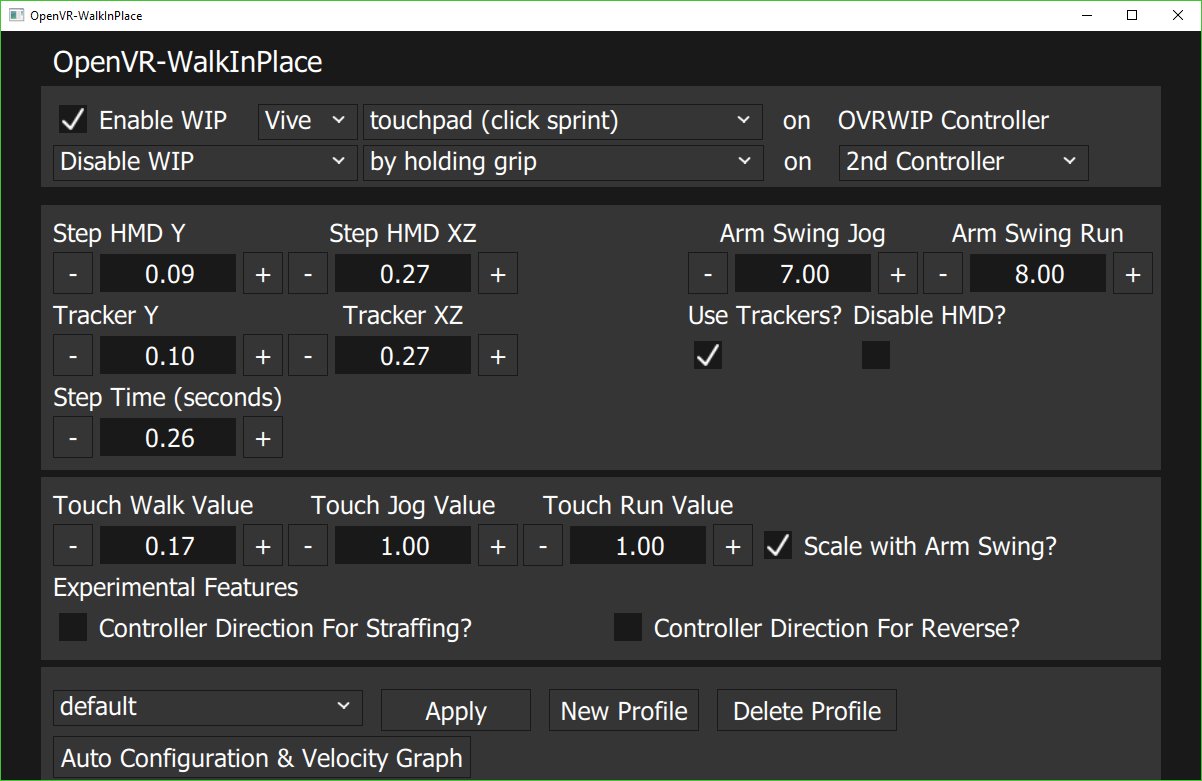
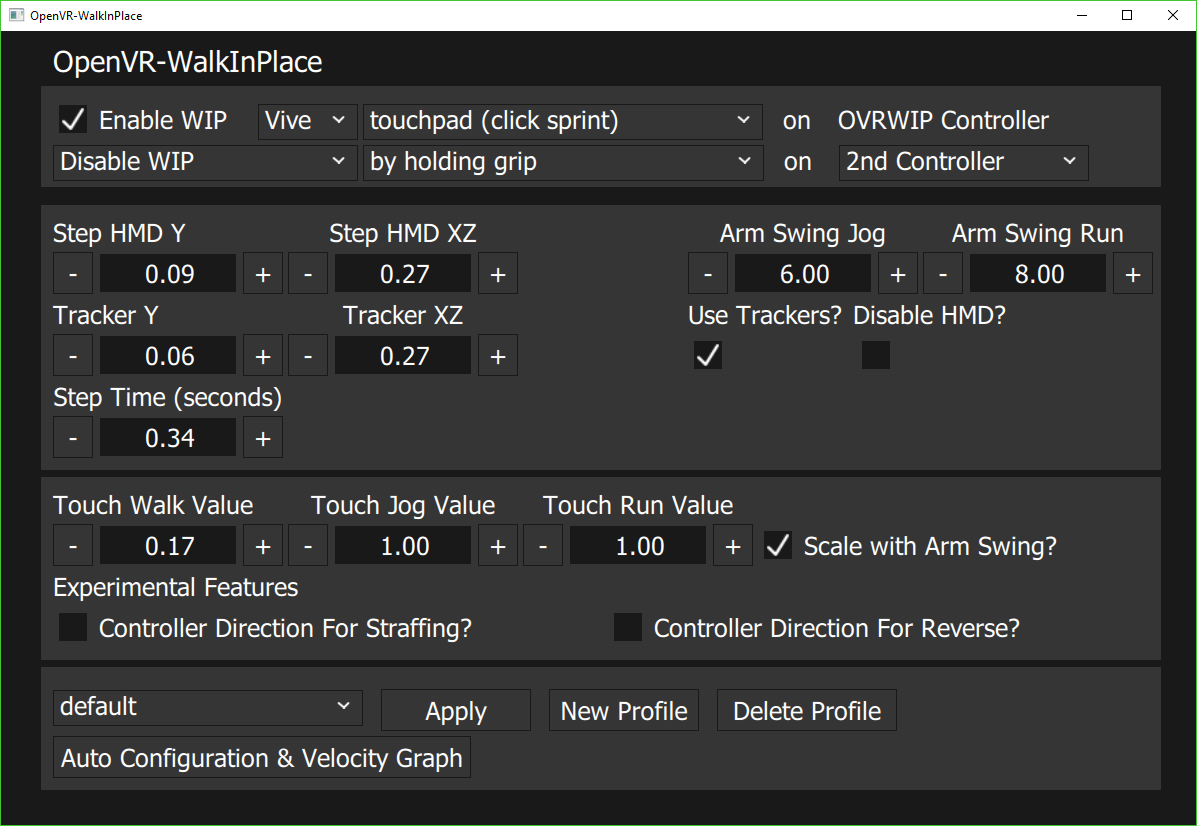
Release 4.0

Changed region(s): [[0.0309, 0.0615, 0.9891, 1.0], [0.0, 0.0, 0.1236, 0.0307]]

diff --git a/client_overlay/bin/x64/res/qml/StepDetectionPage.qml b/client_overlay/bin/x64/res/qml/StepDetectionPage.qml
@@ -442,7 +442,7 @@ MyMainViewPage {
         Component.onCompleted: {   
             if ( !initialLoaded ) { 
                 //updateInfo()
-                reloadWalkInPlaceProfiles()
+                initWalkInPlaceProfiles()
             }
             initialLoaded = true
         }
@@ -506,7 +506,7 @@ MyMainViewPage {
         }
     }
 
-    function reloadWalkInPlaceProfiles() {
+    function initWalkInPlaceProfiles() {
         var profiles = [""]
         var profileCount = WalkInPlaceTabController.getWalkInPlaceProfileCount()
         var defaultFound = -1
@@ -524,6 +524,17 @@ MyMainViewPage {
             walkInPlaceProfileComboBox.currentIndex = defaultFound+1
             updateInfo()
         }
+    }
+
+    function reloadWalkInPlaceProfiles() {
+        var profiles = [""]
+        var profileCount = WalkInPlaceTabController.getWalkInPlaceProfileCount()
+        for (var i = 0; i < profileCount; i++) {
+            var p_name = WalkInPlaceTabController.getWalkInPlaceProfileName(i)
+            profiles.push(p_name)
+        }
+        walkInPlaceProfileComboBox.model = profiles
+        walkInPlaceProfileComboBox.currentIndex = 0
     }
 
 }

diff --git a/client_overlay/bin/x64/res/qml/StepDetectConfBox2.qml b/client_overlay/bin/x64/res/qml/StepDetectConfBox2.qml
@@ -7,7 +7,7 @@ GroupBox {
 
     property double hmdXZ : 0.27
     property double hmdY : 0.12
-    property double trackerY : 0.10
+    property double trackerY : 0.06
     property double trackerXZ : 0.27
     property bool useTrackers : false
     property bool disableHMD : false

diff --git a/client_overlay/src/tabcontrollers/WalkInPlaceTabController.cpp b/client_overlay/src/tabcontrollers/WalkInPlaceTabController.cpp
@@ -1245,9 +1245,11 @@ namespace walkinplace {
 				hasUnTouchedStepAxis = 2;
 				vr::VRControllerAxis_t axisState;
 				vr::HmdVector3_t hand1Vel = { 0,0,0 };
-				vr::HmdVector3_t hand2Vel = { 0,0,0 };
+				vr::HmdVector3_t hand2Vel = { 0,0,0 }; 
+				double handVelDT = 1.0 / 10.0 * 1000;
+				double tHandDiff = ((double)(now - timeLastHandVelTick));
 				if (moveButtonCheck) {
-					if (tdiff >= deltatime) {
+					if (tHandDiff >= handVelDT) {
 						if (controller1ID != vr::k_unTrackedDeviceIndexInvalid || controller2ID != vr::k_unTrackedDeviceIndexInvalid) {
 							//check if first controller is running / jogging
 							if (controller1ID != vr::k_unTrackedDeviceIndexInvalid) {
@@ -1259,24 +1261,42 @@ namespace walkinplace {
 							if (contVelSampleTime > (stepFrequencyMin * 12)) {
 								if (contVelSamples.size() > 4) {
 									contVelSamples.erase(contVelSamples.begin() + 3.0, contVelSamples.end());
+									sortContVelSamples.clear();
+									sortContVelSamples.swap(contVelSamples);									
+									std::sort(sortContVelSamples.begin(), sortContVelSamples.end(), greater());
 								}
 								contVelSampleTime = 0;
 							}
 							else {
 								contVelSampleTime += tdiff;
 							}
-							contVelSamples.push_back(std::max(std::fabs(hand1Vel.v[1]), std::fabs(hand2Vel.v[1])));
-							std::vector<float> temp(contVelSamples);
-							std::sort(temp.begin(), temp.end(), greater());
-							totalContYVel = 0;
-							int count = 0;
-							for (int i = 0; i < 3; i++) {
-								if (temp.size() > i) {
-									totalContYVel = totalContYVel + temp.at(i);
-									count++;
+							float handVel = std::max(std::fabs(hand1Vel.v[1]), std::fabs(hand2Vel.v[1]));
+							if (sortContVelSamples.size() < 3) {
+								contVelSamples.push_back(handVel);
+								sortContVelSamples.push_back(handVel);
+								for (int i = 0; i < contVelSamples.size(); i++) {
+									totalContYVel = totalContYVel + contVelSamples.at(i);
+								}
+								avgContYVel = totalContYVel / contVelSamples.size();
+								if (avgContYVel > 0.5) {
+									avgContYVel = 0.5;
 								}
 							}
-							avgContYVel = totalContYVel / count;
+							else {
+								if (handVel > sortContVelSamples.at(0) || handVel > sortContVelSamples.at(1) || handVel > sortContVelSamples.at(2)) {
+									contVelSamples.push_back(handVel);
+									sortContVelSamples.push_back(handVel);
+									std::sort(sortContVelSamples.begin(), sortContVelSamples.end(), greater());
+									totalContYVel = sortContVelSamples.at(0) + sortContVelSamples.at(1) + sortContVelSamples.at(2);
+									avgContYVel = totalContYVel / 3;
+								}
+								else {
+									contVelSamples.push_back(handVel);
+									sortContVelSamples.push_back(handVel);
+									totalContYVel = sortContVelSamples.at(0) + sortContVelSamples.at(1) + sortContVelSamples.at(2);
+									avgContYVel = totalContYVel / 3;
+								}
+							}				
 							isRunning = controllerSwingCheck(avgContYVel, hand1Vel, handRunThreshold) || controllerSwingCheck(avgContYVel, hand2Vel, handRunThreshold);
 							if (isRunning) {
 								runIntegrateSteps = 0;
@@ -1303,6 +1323,9 @@ namespace walkinplace {
 								}
 							}
 						}
+						timeLastHandVelTick = now;
+					}
+					if (tdiff >= deltatime) {
 						timeLastTick = now;
 						stepIntegrateSteps += tdiff;
 					}
@@ -1318,6 +1341,7 @@ namespace walkinplace {
 					jogIntegrateSteps = 0.0;
 					runIntegrateSteps = 0.0;
 					contVelSamples.clear();
+					sortContVelSamples.clear();
 					totalContYVel = 0.0;
 					avgContYVel = 0.0;
 					contVelSampleTime = 0.0;

diff --git a/client_overlay/src/tabcontrollers/WalkInPlaceTabController.h b/client_overlay/src/tabcontrollers/WalkInPlaceTabController.h
@@ -96,6 +96,7 @@ private:
 	vr::VROverlayHandle_t overlayHandle;
 
 	std::vector<float> contVelSamples;
+	std::vector<float> sortContVelSamples;
 	bool mappedControllerDriver1 = false;
 	bool mappedControllerDriver2 = false;
 	bool identifyControlTimerSet = true;
@@ -171,6 +172,7 @@ private:
 	double runIntegrateSteps = 0.0;
 	double stepIntegrateStepLimit = 500;
 	double timeLastTick = 0.0;
+	double timeLastHandVelTick = 0.0;
 	double velStepTime = 0.0;
 	double timeLastStepPeak = 0.0;
 	double timeLastTrackerStep = 0.0;
